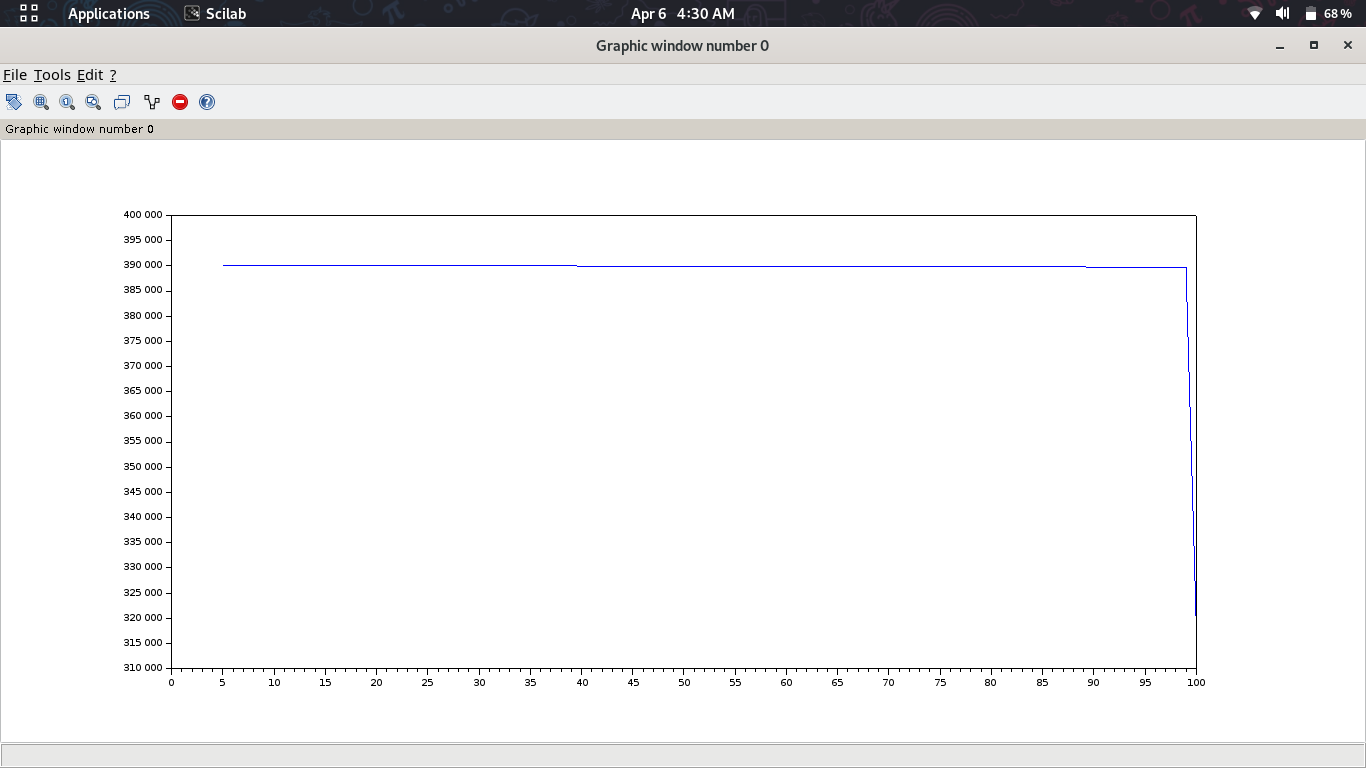
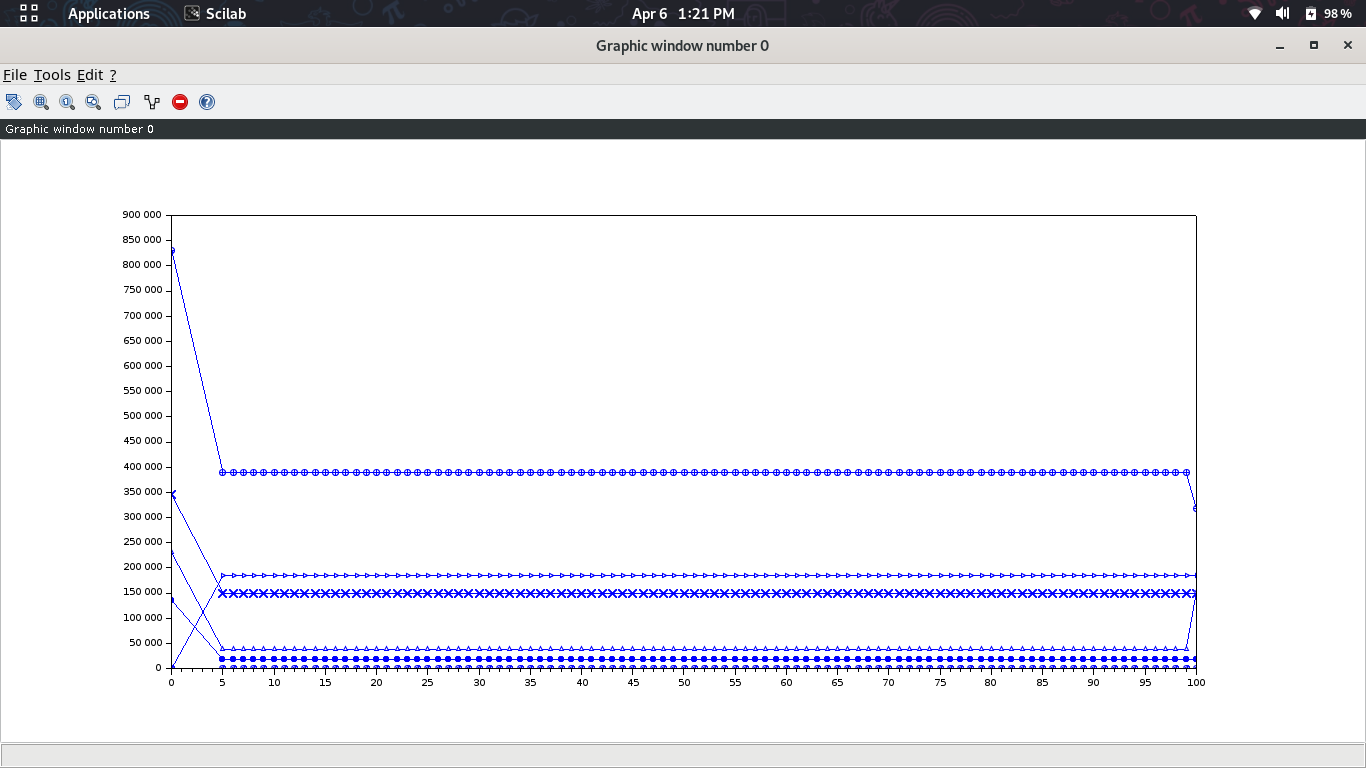
update graph and README

diff --git a/statistics/README.md b/statistics/README.md
@@ -2,3 +2,30 @@ cat data.txt | grep power | awk '{print $5}' > total.txt
 tr '\n' ' : ' < total.txt > total1.txt
 sed 's/\s\+/,/g' total1.txt > total2.txt
 
+cat data.txt | grep bringing | awk '{print $1}' > bring.txt
+tr '\n' ' : ' < bring.txt > bring1.txt
+sed 's/\s\+/,/g' bring1.txt > bring2.txt
+
+cat data.txt | grep distribution | awk '{print $1}' > distribution.txt
+tr '\n' ' : ' < distribution.txt > distribution1.txt
+sed 's/\s\+/,/g' distribution1.txt > distribution2.txt
+
+cat data.txt | grep "initial Block access" | awk '{print $1}' > access.txt
+tr '\n' ' : ' < access.txt > access1.txt
+sed 's/\s\+/,/g' access1.txt > access2.txt
+
+cat data.txt | grep "transferring" | awk '{print $1}' > transferring.txt
+tr '\n' ' : ' < transferring.txt > transferring1.txt
+sed 's/\s\+/,/g' transferring1.txt > transferring2.txt
+
+cat data.txt | grep "balancing" | awk '{print $1}' > balancing.txt
+tr '\n' ' : ' < balancing.txt > balancing1.txt
+sed 's/\s\+/,/g' balancing1.txt > balancing2.txt
+
+cat data.txt | grep "continued" | awk '{print $1}' > continued.txt
+tr '\n' ' : ' < continued.txt > continued1.txt
+sed 's/\s\+/,/g' continued1.txt > continued2.txt
+
+
+Scilab
+--> plot( x, y , "+-" ) ; plot ( x , z , "o-" ) ; plot (x , a ,"x-") ; plot(x , b , ".-") ; plot (x , c , "<-") ; plot (x ,d , ">-") ; plot( x , e ,"^-");
